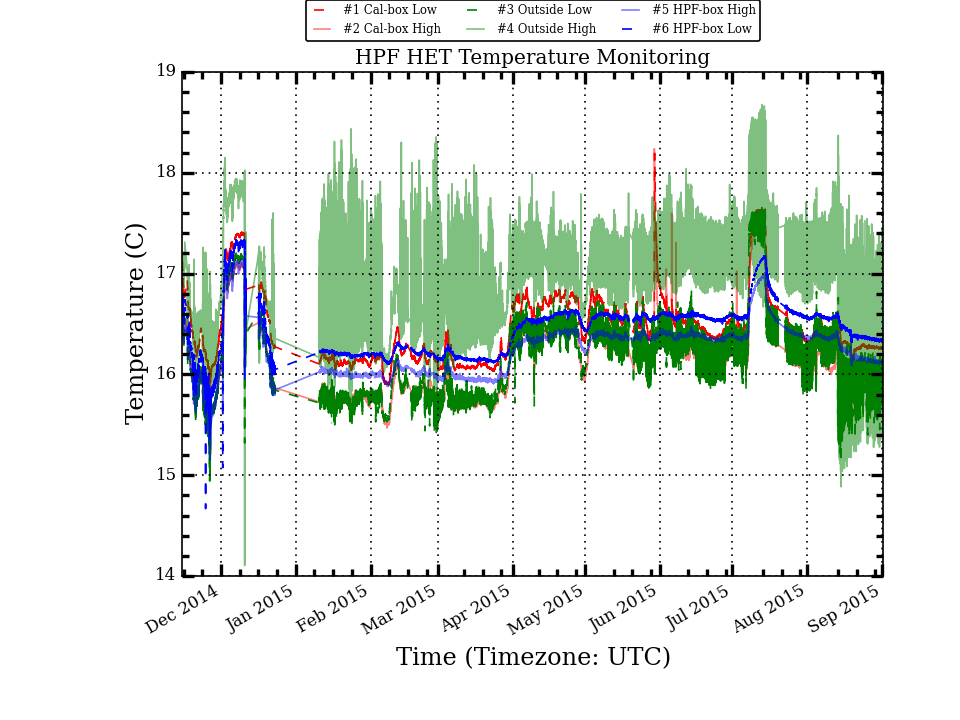
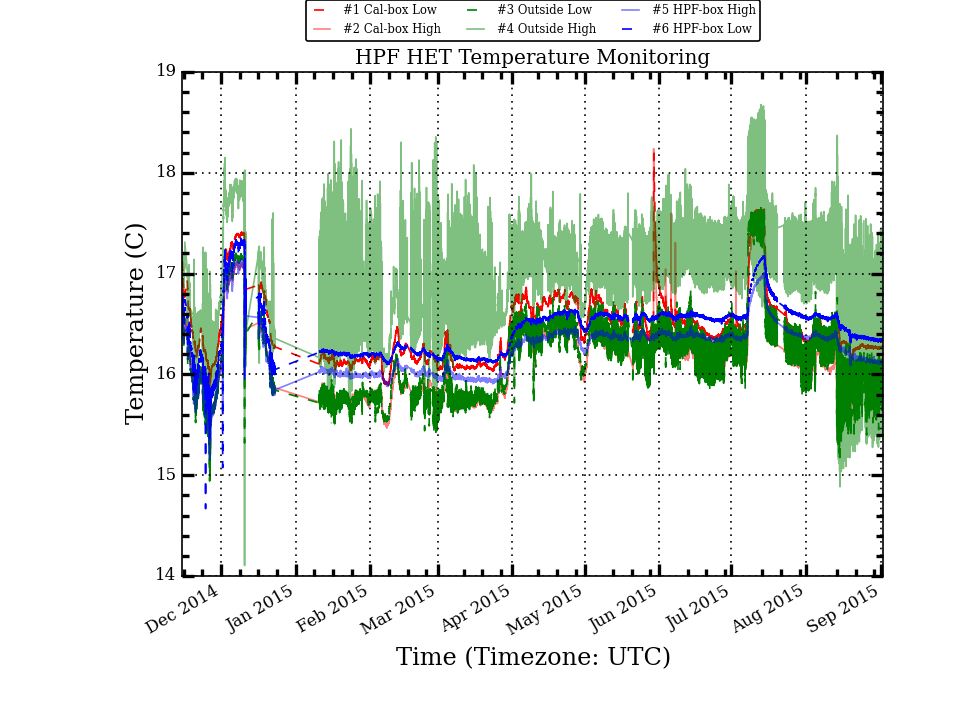
Update HPF Temp Plots

diff --git a/research/hpf_temps/plots/LakeShoreLogTotal_stats.html b/research/hpf_temps/plots/LakeShoreLogTotal_stats.html
@@ -10,16 +10,16 @@
  </TR>
  <TR>
   <TD>Cal_Low</TD>
-  <TD>16.466</TD>
+  <TD>16.465</TD>
   <TD>0.348</TD>
-  <TD>16.434</TD>
+  <TD>16.433</TD>
   <TD>18.195</TD>
   <TD>15.840</TD>
   <TD>2.355</TD>
  </TR>
  <TR>
   <TD>Cal_High</TD>
-  <TD>16.121</TD>
+  <TD>16.120</TD>
   <TD>0.379</TD>
   <TD>16.079</TD>
   <TD>18.238</TD>
@@ -30,14 +30,14 @@
   <TD>Out_Low</TD>
   <TD>16.183</TD>
   <TD>0.410</TD>
-  <TD>16.185</TD>
+  <TD>16.184</TD>
   <TD>17.654</TD>
   <TD>14.942</TD>
   <TD>2.712</TD>
  </TR>
  <TR>
   <TD>Out_High</TD>
-  <TD>16.961</TD>
+  <TD>16.960</TD>
   <TD>0.490</TD>
   <TD>17.022</TD>
   <TD>18.676</TD>
@@ -56,7 +56,7 @@
  <TR>
   <TD>HPF_Low</TD>
   <TD>16.451</TD>
-  <TD>0.271</TD>
+  <TD>0.270</TD>
   <TD>16.537</TD>
   <TD>17.356</TD>
   <TD>14.668</TD>
